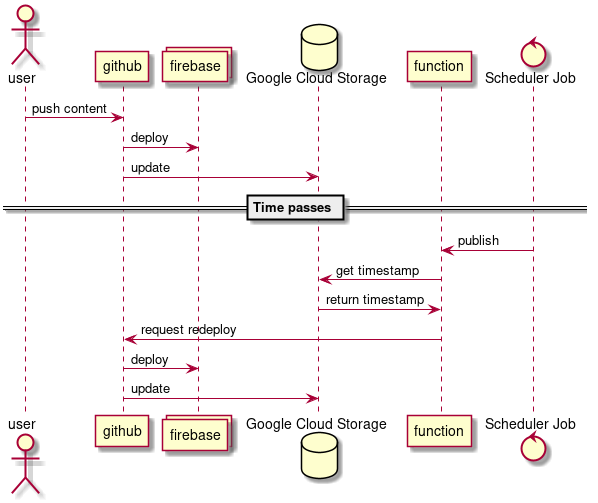
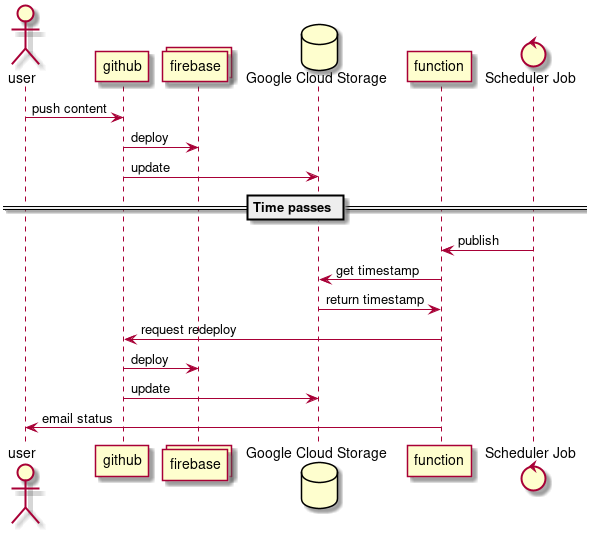
Add email step to flow

diff --git a/README.md b/README.md
@@ -10,18 +10,18 @@ future.
 ![Flow Diagram](/docs/flow.png)
 
 1. User pushes content to master branch
-2. Github action fires doing two things:
+2. Github action fires and does two things:
     1. Build the site and deploy.
     2. Update a timestamp in a Google Cloud Storage bucket
 
 _time passes_
 
-1. A GCP Scheduler job publish to topic
+1. A GCP Scheduler job publishes to a topic
 2. A Cloud Function activates on that topic and
     1. Reads the timestamp from the bucket
-    2. If the current date is AFTER the timestamp
+    2. If the current date is _after_ the timestamp
         - call back into github to start the actions
-    3. Send email about what it did.
+    3. Send email about what it did (or did not do).
 
 ## Installing
 
